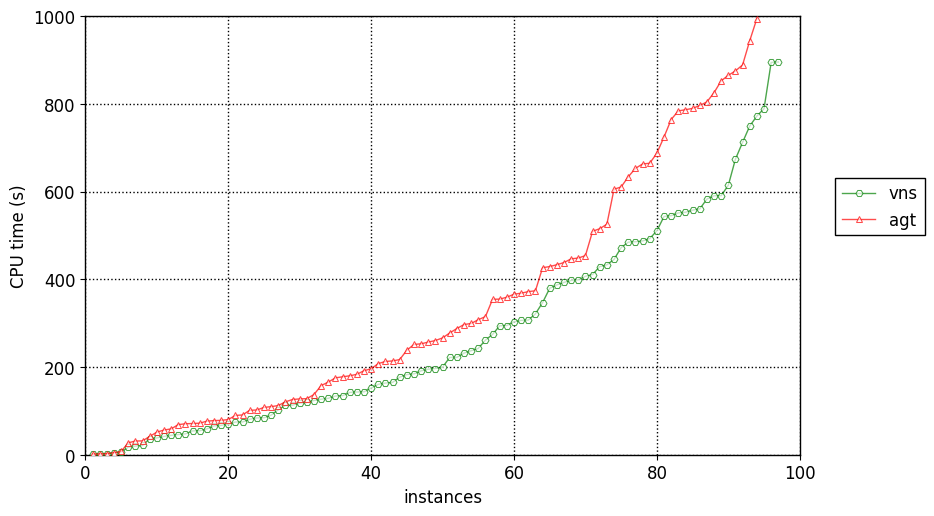
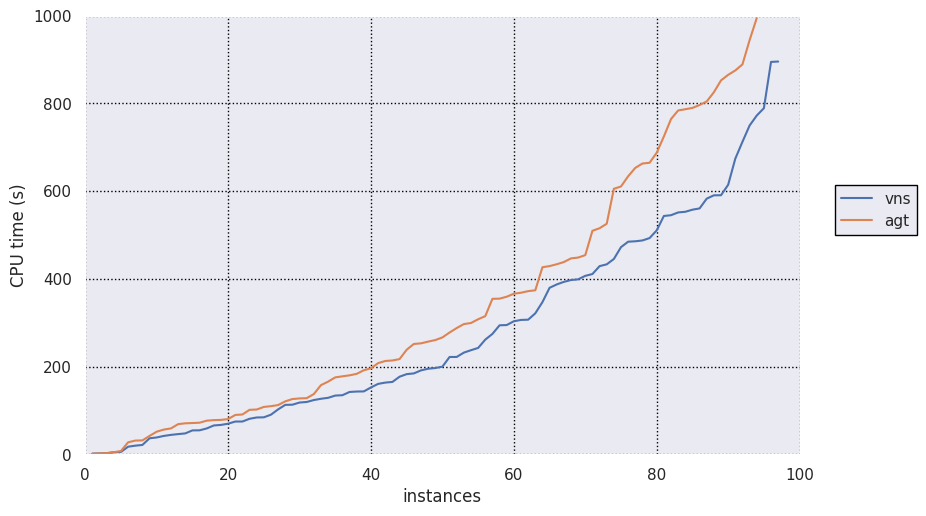
Add seaborn support

diff --git a/cactus.py b/cactus.py
@@ -29,14 +29,19 @@ class Cactus(Plot, object):
         Does the plotting.
         """
 
+        if self.seaborn:
+            import seaborn as sns
+
+            sns.set()  # set_theme
+
         # Make x and y line plot from the data
         coords = []
         for prog in data:
             coords.append(np.arange(1, len(prog) + 1))  # xs (separate for each line)
             coords.append(np.array(sorted(prog.get_values())))
-        lines = plt.plot(*coords, zorder=3)
 
-        # setting line styles
+        lines = plt.plot(*coords, zorder=3)
+        # Compute line styles - do not want to do it if using seaborn
         if not self.byname:  # by default, assign fist line to best tool
             lmap = lambda i: i
         else:  # assign line styles by tool name
@@ -45,9 +50,10 @@ class Cactus(Plot, object):
             tmap = {tn[1]: i for i, tn in enumerate(tnames)}
             lmap = lambda i: tmap[i]
 
-        # Set the line-styles
-        for i, l in enumerate(lines):
-            plt.setp(l, **self.linestyles[lmap(i) % len(self.linestyles)])
+        # Set the line-styles if not using seaborn
+        if not self.seaborn:
+            for i, l in enumerate(lines):
+                plt.setp(l, **self.linestyles[lmap(i) % len(self.linestyles)])
 
         # Turning the grid on
         if not self.no_grid:

diff --git a/mkplot.py b/mkplot.py
@@ -122,6 +122,7 @@ def get_parser() -> argparse.ArgumentParser:
         "--vbs", type=str, default=None, help="List of VBSes"
     )  # Format: {"vbs1": ["tool1", "tool2"], "vbs2": "all"}
     parser.add_argument("--xkcd", action="store_true", help="Use xkcd-style sketch plotting")
+    parser.add_argument("--seaborn", action="store_true", help="Use seaborn to plot")
 
     parser.add_argument("--x_label", type=str, help="X label")
     parser.add_argument("--x_log", action="store_true", help="Use logarithmic scale for X axis")

diff --git a/scatter.py b/scatter.py
@@ -71,6 +71,11 @@ class Scatter(Plot, object):
         if len(data[0]) != len(data[1]):
             raise ScatterException("Number of instances for each competitor must be the same")
 
+        if self.seaborn:
+            import seaborn as sns
+
+            sns.set()  # set_theme
+
         step = math.ceil((self.x_max - self.x_min) / 10)
         x = np.arange(self.x_min, self.x_max + self.x_min + step, step)
 

diff --git a/load_data.py b/load_data.py
@@ -61,6 +61,7 @@ def load_json_data_from_file(file_path, stat_type, max_val, min_val) -> Program:
 
 def load_experiment_data_from_db(exp_id, alias, max_val, min_val, ltb):
     from database import DB  # Importing here as it requires mysql that might  not be installed
+
     db = DB(ltb_problems=ltb)
     res = db.get_solved_problem_name_time(exp_id, upper_time_bound=max_val)
 

diff --git a/plot.py b/plot.py
@@ -110,3 +110,5 @@ class Plot:
         # funny mode
         if options["xkcd"]:
             plt.xkcd()
+
+        self.seaborn = options["seaborn"]
